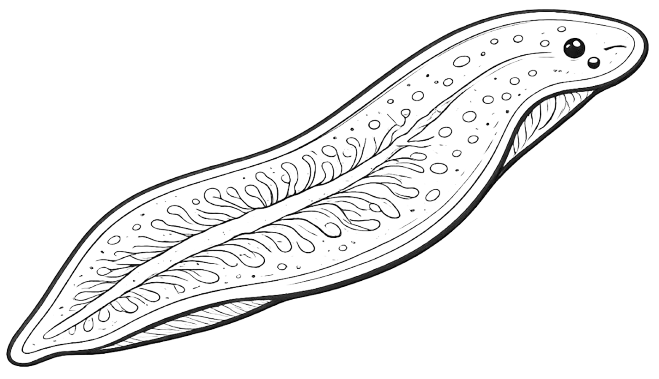
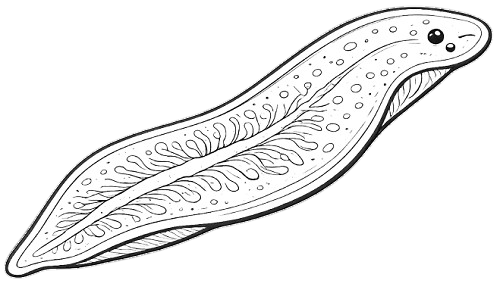
aa

diff --git a/index.html b/index.html
@@ -151,7 +151,7 @@
 					
 				<div class="col-sm-12">
 					<div class="hab">
-						<a><img  class="sk" src="midia/h0.png"></a>
+						<a><img  class="taxon" src="midia/h0.png"></a>
 						<p class="text-center font-weight-bold"><i>The Taxon Metazoa</i></p> 
 						<p class="text text-justify">A eletrônica não são apenas placas complexas de circuito minusculas, é possível desenvolver dispositivos como aparatos mais simples e, com a solda, consertar e criar diversos desses aparatos eletrônicos com mais facilidade.</p>
 					</div><br><br>
@@ -159,7 +159,7 @@
 		
 				<div class="col-sm-4">
 					<div class="hab">
-						<a><img  class="sk" src="midia/h1.png"></a>
+						<a><img  class="filo" src="midia/h1.png"></a>
 						<p class="text-center font-weight-bold"><i>Platelmintos</i></p> 
 						<p class="text text-justify">A eletrônica não são apenas placas complexas de circuito minusculas, é possível desenvolver dispositivos como aparatos mais simples e, com a solda, consertar e criar diversos desses aparatos eletrônicos com mais facilidade.</p>
 					</div><br>
@@ -167,7 +167,7 @@
 				
 				<div class="col-sm-4">
 					<div class="hab">
-						<a><img  class="sk" src="midia/h2.png"></a>
+						<a><img  class="filo" src="midia/h2.png"></a>
 						<p class="text-center font-weight-bold"><i>Anelida</i></p>
 						<p class="text text-justify">Com ela é possível quase tudo, desde automação em geral, usando o Arduino, até a confecção de protótipos e robôs, seja em miniatura para teste, demonstração ou em escala norma, além de ser um diferencial no ensino dos jovens.</p>
 					</div><br>
@@ -175,7 +175,7 @@
 				
 				<div class="col-sm-4">
 					<div class="hab">
-						<a><img  class="align-center sk" src="midia/h3.png"></a>
+						<a><img  class="filo" src="midia/h3.png"></a>
 						<p class="text-center font-weight-bold"><i>Nematoda</i></p>
 						<p class="text text-justify">A modelagem 3D permite a criação de quase todo tipo de objeto e até mesmo estruturas mais complexas, tornando possível fazer a sua imaginação se tornar realidade, o que perite o desenvolver de quase todos seus desenhos.</p>
 					</div><br>

diff --git a/index.css b/index.css
@@ -68,13 +68,20 @@
 
 .imgp{
 	width:180px;
-	margin: 0px 27% 15px 27%;
+	display: block;
+	margin: auto;
 }
 
 /* Seção Habilidades */
-.sk{
-	width:150px;
-	margin: 0px 25% 15px 25%;
+.taxon{
+	width: 360px;
+	display: block;
+	margin: auto;
+}
+.filo{
+	width:160px;
+	display: block;
+	margin: auto;
 }
 .hab{
 	background: url(midia/bglaranja.png) center fixed;
